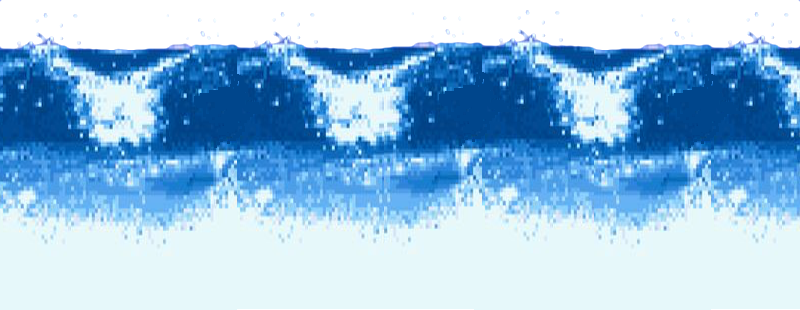
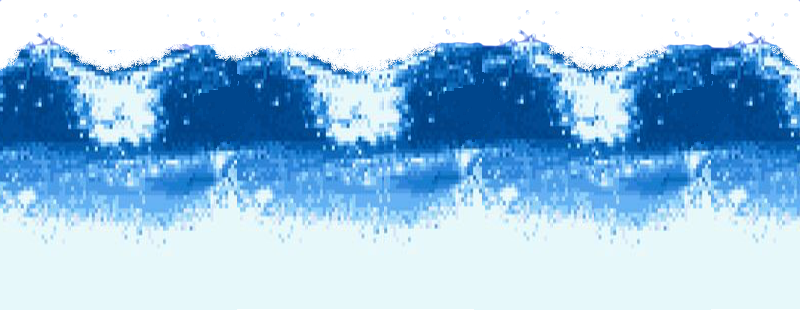
La ola ya funciona y el surfero salta pero parpadea

diff --git a/js/game.js b/js/game.js
@@ -6,12 +6,11 @@ const Game = {
   fps: 60,
   framesCounter: 0,
   playerKeys: {
-    SPACE: 32
+    SPACE: 32,
   },
   score: 0,
 
   init: function() {
-    console.log("Init llamado")
     this.canvas = document.getElementById('game-surf');
     this.ctx = this.canvas.getContext('2d');
     this.width = 800;
@@ -23,24 +22,24 @@ const Game = {
   },
 
   start: function() {
-    console.log("Start Llamada")
     this.reset()
-    this.interval = setInterval(() => {
-      this.framesCounter++;
+    movimiento()
+    // this.interval = setInterval(() => {
+    //   this.framesCounter++;
 
-      this.clear();
-      this.drawAll();
-      // this.moveAll();
+    //   this.clear();
+    //   this.drawAll();
+    //   this.moveAll();
 
-      // this.clearObstacles()
-      // if(this.framesCounter % 70 === 0) this.generateObstacles()
-      // if(this.framesCounter % 100 === 0) this.score++;
-      // if(this.isCollision()) this.gameOver()
-      // if(this.framesCounter > 1000) this.framesCounter = 0;
-    }, 1000/this.fps)
+    //   // this.clearObstacles()
+    //   // if(this.framesCounter % 70 === 0) this.generateObstacles()
+    //   // if(this.framesCounter % 100 === 0) this.score++;
+    //   // if(this.isCollision()) this.gameOver()
+    //   // if(this.framesCounter > 1000) this.framesCounter = 0;
+    // }, 1000/this.fps)
     // if (this.playing = 1){
     //   document.getElementById('start-button').onclick = function() {
-         Game.reset()
+         //Game.reset()
     //     Game.clear()
     //     Game.start()
     //     this.playing = 0;
@@ -51,19 +50,20 @@ const Game = {
   drawAll: function() {
     this.background.draw();
     this.ola.draw();
-    console.log("DrawAll llama a Ola")
     this.player.draw();
-    console.log("DrawAll llama al Player")
+  },
+
+  moveAll: function() {
+    //this.background.move()
+    this.player.move()
+    //this.obstacles.forEach(obstacle => obstacle.move())
+    this.ola.move()
   },
 
   reset: function() {
-    console.log("Reset llamado")
     this.background = new Background(this.ctx, this.width, this.height);
-    console.log("Background Reseteado")
     this.player = new Player(this.ctx, 150, 150, this.width, this.height,);
-    console.log("Player Reseteado")
     this.ola = new Ola(this.ctx, 800, 150, this.width, this.height,);
-    console.log("Ola Reseteada")
     //this.obstacles = [];
     //ScoreBoard.init(this.ctx, this.score)
   },
@@ -72,4 +72,20 @@ const Game = {
     this.ctx.clearRect(0, 0, this.width, this.height)
   }
 
+}
+
+function movimiento(){
+  this.interval = setInterval(() => {
+    Game.framesCounter++;
+
+    Game.clear();
+    Game.moveAll();
+    Game.drawAll();
+
+    // this.clearObstacles()
+    // if(this.framesCounter % 70 === 0) this.generateObstacles()
+    // if(this.framesCounter % 100 === 0) this.score++;
+    // if(this.isCollision()) this.gameOver()
+    // if(this.framesCounter > 1000) this.framesCounter = 0;
+  }, 1000/Game.fps)
 }

diff --git a/js/player.js b/js/player.js
@@ -1,31 +1,52 @@
 class Player {
   constructor(ctx, width, height, gameWidth, gameHeight,) {
-    console.log("Construye al jugador");
     this.ctx = ctx;
     this.width = width;
     this.height = height;
-    console.log("1");
     this.image = new Image();
     this.image.src = './images/surfer.png';
-    console.log("Imagen Cargada")
     this.posX = 100;
     this.posY = gameHeight * 0.8 - this.height ;
-    //this.posY0 = gameHeight * 0.98 - this.height ;
-    //this.vy = 1;
-    //this.gravity = 0.4;
+    this.posY0 = gameHeight * 0.8 - this.height ;
+    this.posYmax = 90;
+    this.posVaiven = 100;
+    this.vel = this.posY0;
+    this.gravity = 5;
     this.gameWidth = gameWidth;
-    console.log("3");
 
     // this.frames = 3;
     // this.framesIndex = 0;
 
     // this.keys = keys;
     // this.bullets = [];
-    // this.setListeners()
+     this.setListeners()
   }
 
   draw() {
     this.ctx.drawImage(this.image, this.posX, this.posY, this.width, this.height);
+  }
+
+  move() {
+      if(this.posY <= this.posY0) {
+        this.posY += this.vel;
+        this.vel += this.gravity;
+      } else {
+        this.vel = 15;
+        this.posY = this.posY0;
+      }
+  }
+
+  setListeners() {
+    document.addEventListener('keydown', (e) => {
+      switch(e.keyCode) {
+        case 32:
+            if(this.posY >= this.posY0) {
+              this.posY -= this.vel;
+              this.vel -= 60;
+            }
+            break;
+      }
+    })
   }
 
 

diff --git a/js/ola.js b/js/ola.js
@@ -1,20 +1,17 @@
 class Ola {
   constructor(ctx, width, height, gameWidth, gameHeight,) {
-    console.log("Construye la Ola");
     this.ctx = ctx;
     this.width = width;
     this.height = height;
-    console.log("1");
     this.image = new Image();
     this.image.src = './images/ola-surfear.png';
-    console.log("Imagen Cargada")
     this.posX = 0;
     this.posY = gameHeight - this.height ;
     //this.posY0 = gameHeight * 0.98 - this.height ;
     //this.vy = 1;
+    this.vx = 4;
     //this.gravity = 0.4;
     this.gameWidth = gameWidth;
-    console.log("3");
 
     // this.frames = 3;
     // this.framesIndex = 0;
@@ -26,7 +23,12 @@ class Ola {
 
   draw() {
     this.ctx.drawImage(this.image, this.posX, this.posY, this.width, this.height);
-    console.log("Pinta la ola")
+    this.ctx.drawImage(this.image, this.posX + this.width, this.posY, this.width, this.height)
+  }
+
+  move() {
+    this.posX -= this.vx;
+    if(this.posX <= -this.width) this.posX = 0;
   }
 
 

diff --git a/js/index.js b/js/index.js
@@ -1,6 +1,7 @@
 window.onload = function () {
-  document.getElementById("startBtn").onclick = function () {
-    document.getElementById("startBtn").innerHTML = "RESET";
+  //document.getElementById("startBtn").onclick = function () {
+  //  document.getElementById("startBtn").innerHTML = "RESET";
     Game.init()
-  } 
+  //} 
+  // ARREGLAR QUE HAYA UN PLAY Y UN RESET QUE FUNCIONEN, AHORA INICIA CADA VEZ QUE ABRES EL JUEGO
 };

diff --git a/js/background.js b/js/background.js
@@ -14,7 +14,6 @@ class Background {
   }
 
   draw() {
-    console.log("Pinta el Fondo");
     this.ctx.drawImage(this.image, 0, 0, this.width, this.height);
     // this.ctx.drawImage(this.image, this.posX + this.width, this.posY, this.width, this.height) */
   }
